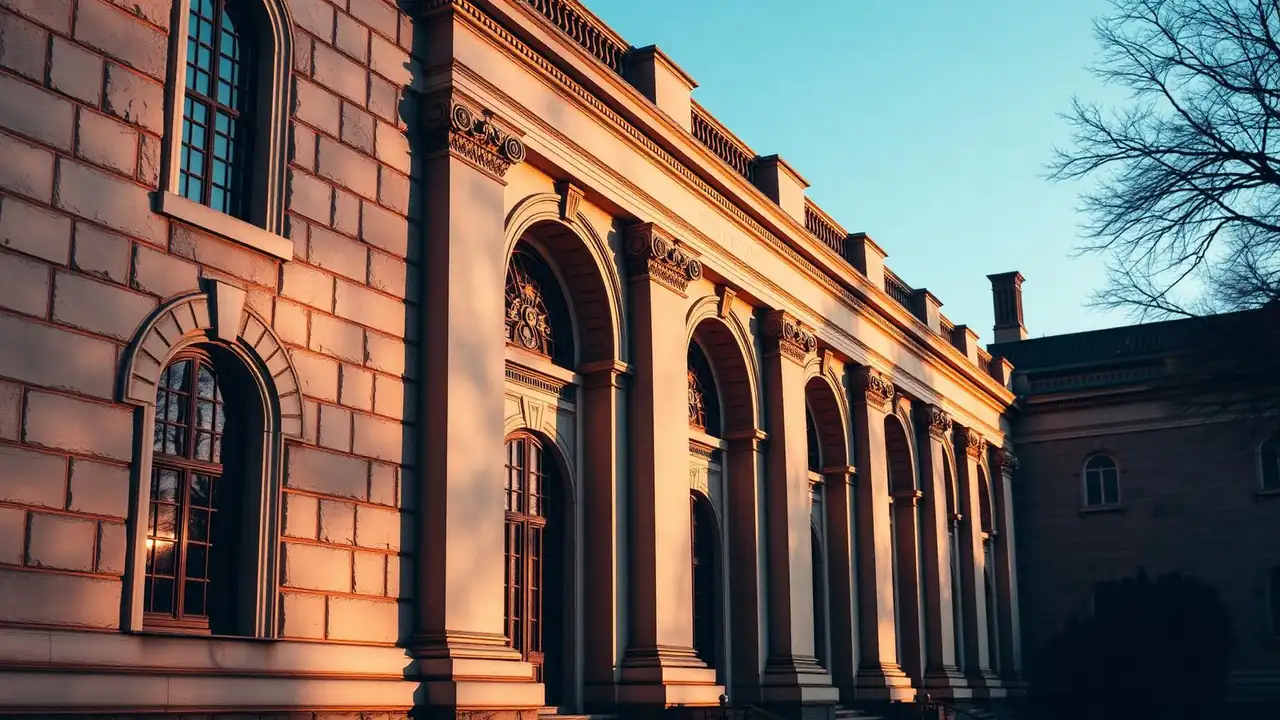
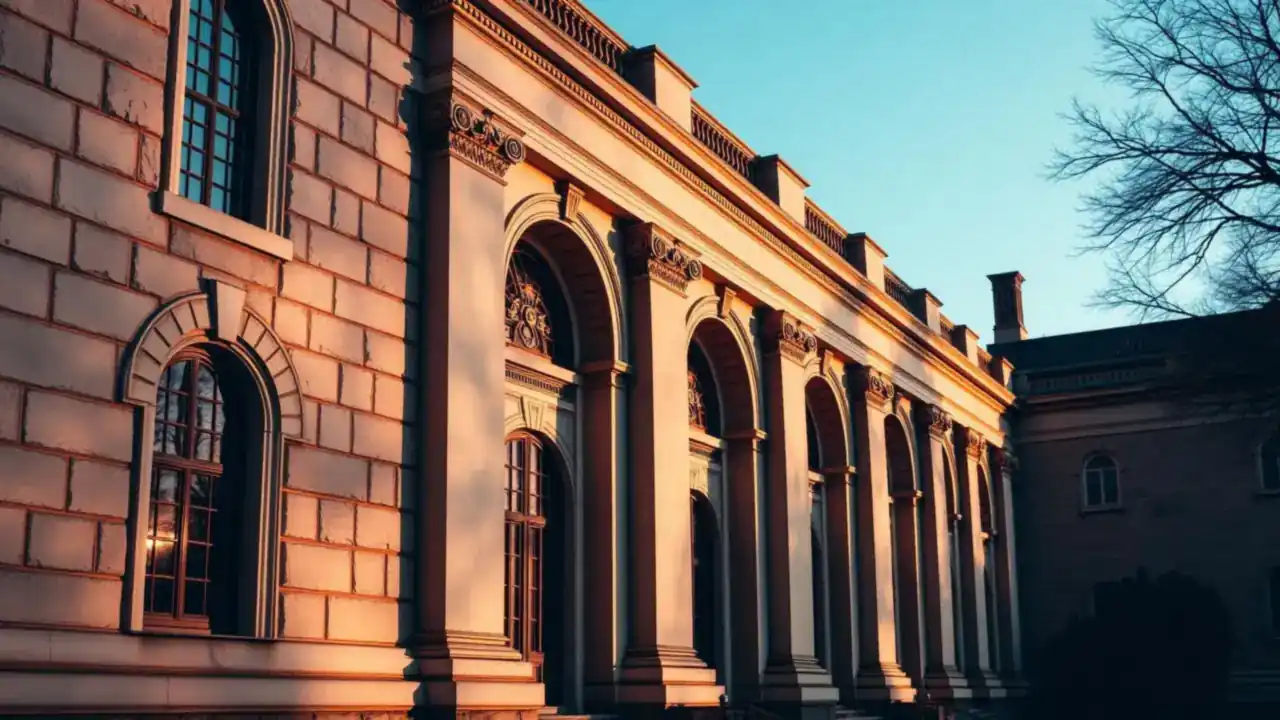
Cut image payload and let data outrank decoration on load.
The hero was preloaded at high priority and outranked programmes.json, so on a slow connection the table waited behind a 90 KB photo. Shrink hero and logos by 98 KB total and flip the fetch priorities.

diff --git a/index.html b/index.html
@@ -7,9 +7,9 @@
   <meta name="description" content="Search grants, programmes and support for founders and researchers." />
   <link rel="icon" href="favicon.svg" type="image/svg+xml" />
   <link rel="preload" href="assets/fonts/open-sans-latin.woff2" as="font" type="font/woff2" crossorigin />
-  <link rel="preload" href="assets/hero-university-sm.webp" as="image" type="image/webp" media="(max-width: 767px)" fetchpriority="high" />
-  <link rel="preload" href="assets/hero-university-md.webp" as="image" type="image/webp" media="(min-width: 768px)" fetchpriority="high" />
-  <link rel="preload" href="data/programmes.json" as="fetch" crossorigin="anonymous" />
+  <link rel="preload" href="data/programmes.json" as="fetch" crossorigin="anonymous" fetchpriority="high" />
+  <link rel="preload" href="assets/hero-university-sm.webp" as="image" type="image/webp" media="(max-width: 767px)" fetchpriority="low" />
+  <link rel="preload" href="assets/hero-university-md.webp" as="image" type="image/webp" media="(min-width: 768px)" fetchpriority="low" />
   <link rel="modulepreload" href="landing.js" />
   <link rel="modulepreload" href="shared.js" />
   <link rel="modulepreload" href="multiselect.js" />
@@ -21,7 +21,8 @@
     <div class="hero-scrim" aria-hidden="true"></div>
     <div class="brandbar">
       <div class="shell">
-        <img src="assets/ku-logo-white.png" alt="University of Copenhagen" />
+        <img src="assets/ku-logo-white.png" alt="University of Copenhagen"
+             width="88" height="120" decoding="async" fetchpriority="low" />
       </div>
     </div>
     <div class="hero-copy">

diff --git a/results.html b/results.html
@@ -6,7 +6,7 @@
   <title>Funding overview — KU Lighthouse</title>
   <link rel="icon" href="favicon.svg" type="image/svg+xml" />
   <link rel="preload" href="assets/fonts/open-sans-latin.woff2" as="font" type="font/woff2" crossorigin />
-  <link rel="preload" href="data/programmes.json" as="fetch" crossorigin="anonymous" />
+  <link rel="preload" href="data/programmes.json" as="fetch" crossorigin="anonymous" fetchpriority="high" />
   <link rel="modulepreload" href="results.js" />
   <link rel="modulepreload" href="shared.js" />
   <link rel="modulepreload" href="multiselect.js" />
@@ -15,7 +15,8 @@
 <body class="page-results">
   <div class="brandbar">
     <div class="shell">
-      <img src="assets/ku-logo.png" alt="University of Copenhagen" loading="lazy" decoding="async" />
+      <img src="assets/ku-logo.png" alt="University of Copenhagen"
+           width="93" height="120" decoding="async" fetchpriority="low" />
     </div>
   </div>
 
